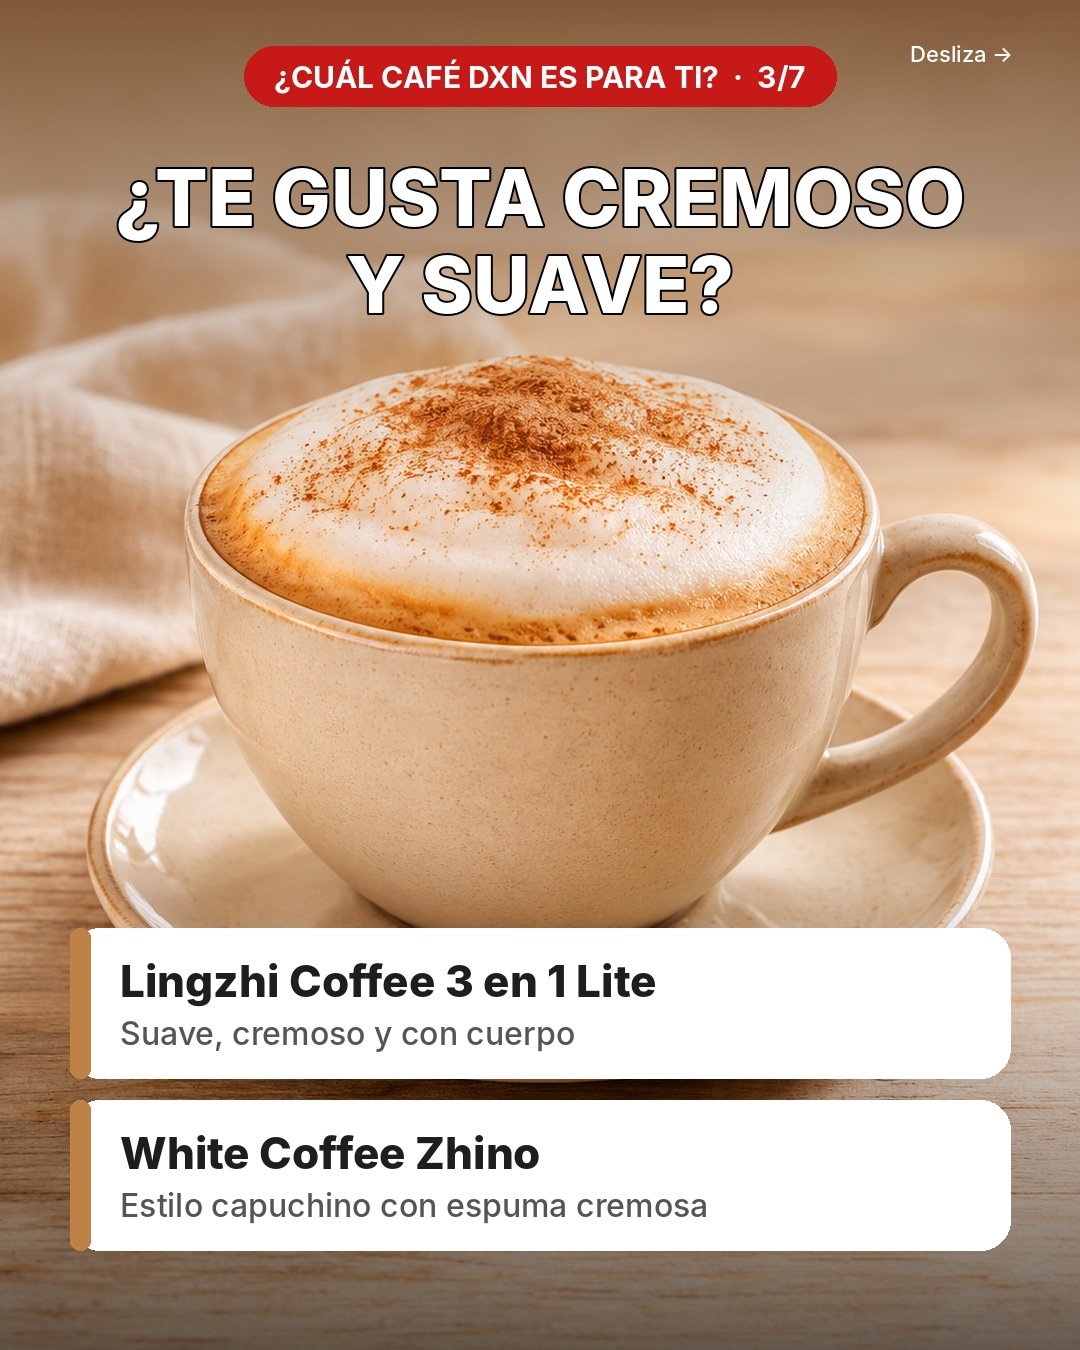
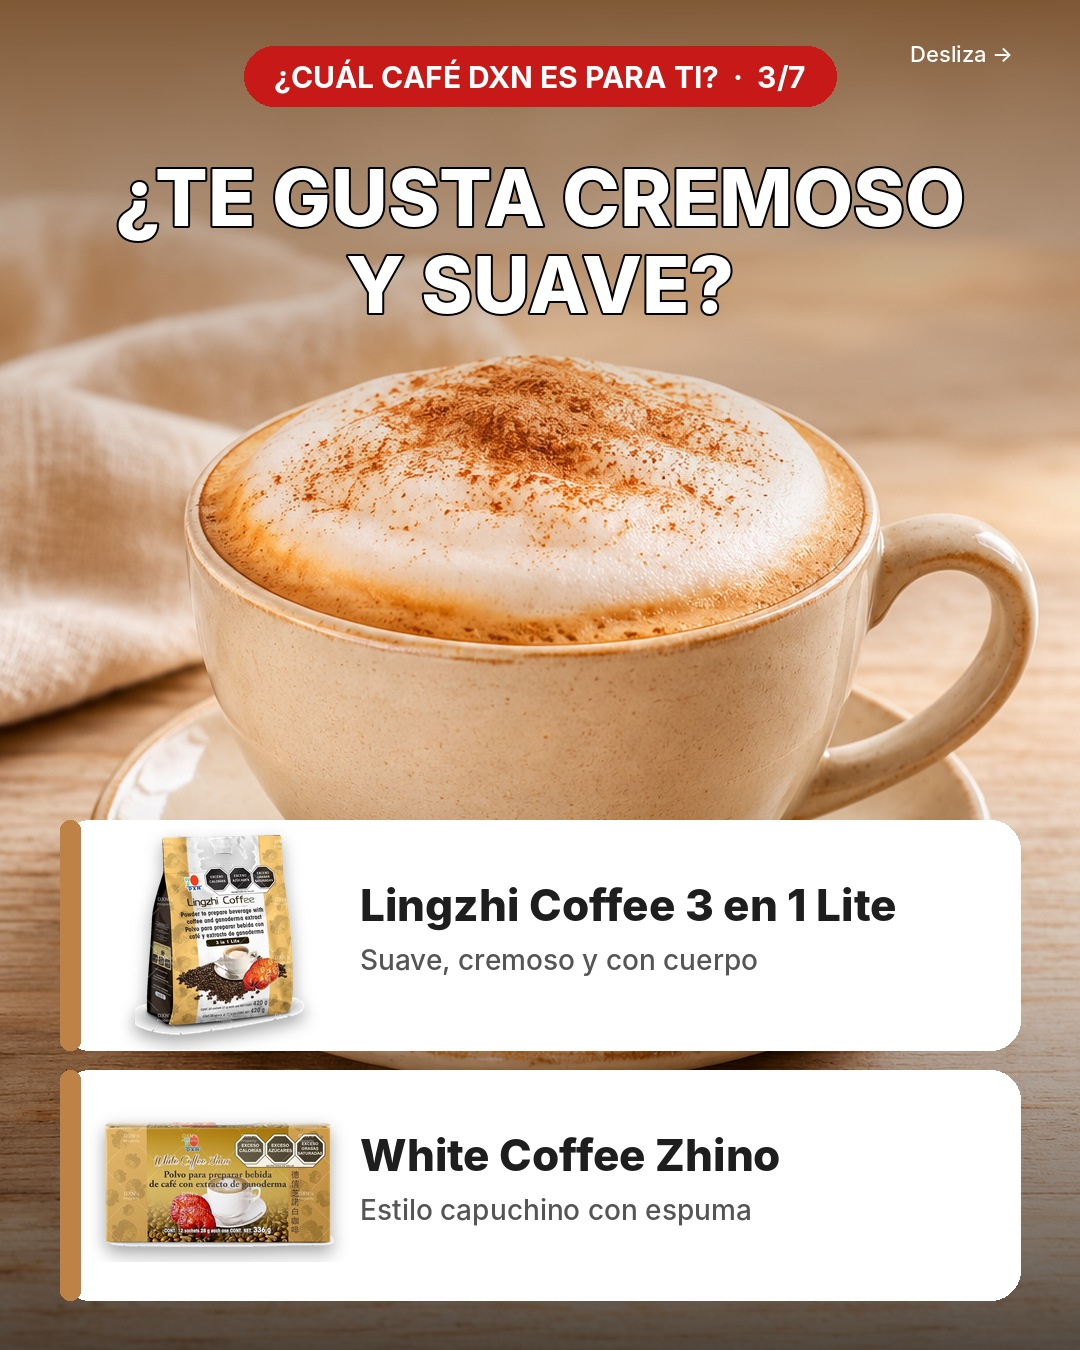
Show official DXN product packs in the coffee carousel
Each card now shows the real package from the DXN Mexico catalog, and the
closing slide shows the nine products instead of a profile photo.

Claude-Session: https://claude.ai/code/session_01TFae1ghcLLBCaaQRACwxi2

Changed region(s): [[0.0306, 0.5911, 0.9472, 0.9644]]

diff --git a/dxn/scripts/carrusel.py b/dxn/scripts/carrusel.py
@@ -22,26 +22,34 @@ def center(d,y,txt,font,fill=(255,255,255),stroke=0,sf=(0,0,0)):
 def pill(d,y,txt,bgc,fg=(255,255,255)):
     w=d.textlength(txt,font=PILL); x=(W-w)/2
     d.rounded_rectangle((x-30,y-12,x+w+30,y+48),radius=30,fill=bgc); d.text((x,y),txt,font=PILL,fill=fg)
+PROD='/tmp/claude-0/-home-user-Pek-Ss-boutique/f5892703-9636-54fe-89dd-0efcb8a15e5f/carrusel/prod/'
+def pack(key,bw,bh):
+    im=Image.open(PROD+key+'.png'); im.thumbnail((bw,bh),Image.LANCZOS)
+    sh=Image.new('RGBA',(im.width+30,im.height+30),(0,0,0,0)); a=im.split()[3].point(lambda v:int(v*0.35))
+    sh.paste((0,0,0,255),(15,22),a); sh=sh.filter(ImageFilter.GaussianBlur(8)); sh.alpha_composite(im,(15,15)); return sh
 def cards(img,items,accent,y0):
-    d=ImageDraw.Draw(img); n=len(items); ch=150; gap=22
-    y=y0 if y0 else H-60-n*ch-(n-1)*gap-40
-    for name,desc in items:
-        d.rounded_rectangle((70,y,W-70,y+ch),radius=30,fill=(255,255,255,240))
-        d.rounded_rectangle((70,y,90,y+ch),radius=10,fill=accent)
-        d.text((120,y+26),name,font=PN,fill=(30,30,30)); d.text((120,y+86),desc,font=PD,fill=(85,85,85))
+    d=ImageDraw.Draw(img); n=len(items); ch=230; gap=20
+    y=H-50-n*ch-(n-1)*gap
+    for name,desc,key in items:
+        d.rounded_rectangle((60,y,W-60,y+ch),radius=30,fill=(255,255,255,245))
+        d.rounded_rectangle((60,y,80,y+ch),radius=10,fill=accent)
+        pk=pack(key,230,200); img.alpha_composite(pk,(int(100+(240-pk.width)/2),int(y+(ch-pk.height)/2)))
+        tx=360; nf=PN if d.textlength(name,font=PN)<W-60-tx-30 else f('Inter-ExtraBold.otf',36)
+        d.text((tx,y+58),name,font=nf,fill=(30,30,30))
+        d.text((tx,y+122),desc,font=f('Inter-Medium.otf',28),fill=(85,85,85))
         y+=ch+gap
     return d
 slides=[
  dict(img='c1.png',color=(20,70,40),q='¿CUÁL CAFÉ DXN\nES PARA TI?',sub='Desliza y descubre el tuyo  →',items=[]),
- dict(img='c2.png',color=(20,20,20),q='¿PREFIERES SIN\nAZÚCAR AÑADIDA?',items=[('Lingzhi Black Coffee 2 en 1','Intenso y aromático, sin azúcar añadida'),('Cream Coffee','Cremoso y sedoso, sin azúcar añadida')],accent=(200,160,60)),
- dict(img='c3.png',color=(120,80,45),q='¿TE GUSTA CREMOSO\nY SUAVE?',items=[('Lingzhi Coffee 3 en 1 Lite','Suave, cremoso y con cuerpo'),('White Coffee Zhino','Estilo capuchino con espuma cremosa')],accent=(190,130,70)),
- dict(img='c4.png',color=(70,40,25),q='¿ERES DE\nCHOCOLATE?',items=[('Zhi Mocha','Café con cocoa en polvo'),('Cocozhi','Bebida de cocoa para toda la familia')],accent=(150,90,50)),
- dict(img='c5.png',color=(35,20,12),q='¿TE GUSTA EL\nCAFÉ FUERTE?',items=[('Zhi Roasted Coffee','Café tostado: sabor intenso')],accent=(200,25,25)),
- dict(img='c6.png',color=(50,110,50),q='¿NO TOMAS\nCAFÉ?',items=[('Lingzhi Tea Latte','Té cremoso y menos amargo'),('Lemonzhi','Limón y té: refrescante')],accent=(230,190,30)),
+ dict(img='c2.png',color=(20,20,20),q='¿PREFIERES SIN\nAZÚCAR AÑADIDA?',items=[('Lingzhi Black Coffee 2 en 1','Intenso, sin azúcar añadida','black'),('Cream Coffee','Cremoso, sin azúcar añadida','cream')],accent=(200,160,60)),
+ dict(img='c3.png',color=(120,80,45),q='¿TE GUSTA CREMOSO\nY SUAVE?',items=[('Lingzhi Coffee 3 en 1 Lite','Suave, cremoso y con cuerpo','lite'),('White Coffee Zhino','Estilo capuchino con espuma','zhino')],accent=(190,130,70)),
+ dict(img='c4.png',color=(70,40,25),q='¿ERES DE\nCHOCOLATE?',items=[('Zhi Mocha','Café con cocoa en polvo','mocha'),('Cocozhi','Cocoa para toda la familia','cocozhi')],accent=(150,90,50)),
+ dict(img='c5.png',color=(35,20,12),q='¿TE GUSTA EL\nCAFÉ FUERTE?',items=[('Zhi Roasted Coffee','Café tostado: sabor intenso','roasted')],accent=(200,25,25)),
+ dict(img='c6.png',color=(50,110,50),q='¿NO TOMAS\nCAFÉ?',items=[('Lingzhi Tea Latte','Té cremoso y menos amargo','tealatte'),('Lemonzhi','Limón y té: refrescante','lemonzhi')],accent=(230,190,30)),
 ]
 for i,s in enumerate(slides,1):
     im=grad(bg_photo(C+s['img']),s['color'],True,560,240)
-    if s['items']: im=grad(im,(0,0,0),False,520,150)
+    if s['items']: im=grad(im,(0,0,0),False,600,170)
     d=ImageDraw.Draw(im)
     if i>1: pill(d,58,f'¿CUÁL CAFÉ DXN ES PARA TI?  ·  {i}/7',(200,25,25))
     center(d,150 if i>1 else 90,s['q'],T,stroke=2,sf=(0,0,0))
@@ -50,17 +58,19 @@ for i,s in enumerate(slides,1):
         d.rounded_rectangle((W/2-260,H-170,W/2+260,H-100),radius=35,fill=(200,25,25)); center(d,H-157,s['sub'],SM)
     if i>1: d.text((W-170,40),'Desliza →',font=TINY,fill=(255,255,255))
     im.convert('RGB').save(OUT+f'carrusel_{i}.jpg',quality=93)
-# slide 7
-im=Image.new('RGB',(W,H),(20,70,40)); d=ImageDraw.Draw(im)
-for y in range(H): d.line((0,y,W,y),fill=(int(14+20*y/H),int(60+30*y/H),int(34+14*y/H)))
-pf=Image.open(OUT+'foto_perfil_dxn_800.jpg').convert('RGB').resize((520,520),Image.LANCZOS)
-m=Image.new('L',(2080,2080),0); ImageDraw.Draw(m).ellipse((0,0,2079,2079),fill=255); m=m.resize((520,520),Image.LANCZOS)
-d.ellipse((W/2-272,318,W/2+272,862),fill=(120,220,90)); im.paste(pf,(int(W/2-260),330),m)
+# slide 7: product lineup
+im=Image.new('RGBA',(W,H),(20,70,40,255)); d=ImageDraw.Draw(im)
+for y in range(H): d.line((0,y,W,y),fill=(int(14+20*y/H),int(60+30*y/H),int(34+14*y/H),255))
 pill(d,58,'¿CUÁL CAFÉ DXN ES PARA TI?  ·  7/7',(200,25,25))
 center(d,140,'¿YA SABES CUÁL\nES EL TUYO?',T2)
-center(d,895,'Roque Hernández',PN,fill=(255,255,255)); center(d,955,'Distribuidor DXN',SM,fill=(190,235,180))
-d.rounded_rectangle((110,1025,W-110,1160),radius=40,fill=(255,255,255))
-center(d,1043,'Escríbeme por mensaje',PN,fill=(20,70,40)); center(d,1103,'y te ayudo a elegir',SM,fill=(80,80,80))
-center(d,1230,'Este producto no es un medicamento. El consumo de este producto es\nresponsabilidad de quien lo recomienda y de quien lo usa.',TINY,fill=(200,225,200))
-im.save(OUT+'carrusel_7.jpg',quality=93)
+d.rounded_rectangle((50,300,W-50,1010),radius=40,fill=(255,255,255,245))
+keys=['black','cream','lite','zhino','mocha','cocozhi','roasted','tealatte','lemonzhi']
+cw,chh=(W-100)//3,230
+for n,k in enumerate(keys):
+    pk=pack(k,cw-40,chh-30); cx=50+(n%3)*cw+(cw-pk.width)//2; cy=315+(n//3)*chh+(chh-pk.height)//2
+    im.alpha_composite(pk,(int(cx),int(cy)))
+d.rounded_rectangle((110,1045,W-110,1180),radius=40,fill=(200,25,25))
+center(d,1062,'Escríbeme por mensaje',PN); center(d,1122,'y te ayudo a elegir',SM,fill=(255,225,225))
+center(d,1232,'Este producto no es un medicamento. El consumo de este producto es\nresponsabilidad de quien lo recomienda y de quien lo usa.',TINY,fill=(200,225,200))
+im.convert('RGB').save(OUT+'carrusel_7.jpg',quality=93)
 print('ok')

diff --git a/dxn/scripts/cutout.py b/dxn/scripts/cutout.py
@@ -1,0 +1,17 @@
+import sys
+from PIL import Image, ImageDraw, ImageFilter, ImageChops
+P='/tmp/claude-0/-home-user-Pek-Ss-boutique/f5892703-9636-54fe-89dd-0efcb8a15e5f/carrusel/prod/'
+for k in ['black','cream','lite','zhino','mocha','cocozhi','roasted','tealatte','lemonzhi']:
+    im=Image.open(P+k+'.jpg').convert('RGB'); w,h=im.size
+    # mask of 'near white' connected to borders via flood fill on a copy
+    m=im.copy(); 
+    for seed in [(0,0),(w-1,0),(0,h-1),(w-1,h-1),(w//2,0),(w//2,h-1),(0,h//2),(w-1,h//2)]:
+        if sum(m.getpixel(seed))>700: ImageDraw.floodfill(m,seed,(255,0,255),thresh=28)
+    px=m.load(); a=Image.new('L',(w,h),255); ap=a.load()
+    for y in range(h):
+        for x in range(w):
+            if px[x,y]==(255,0,255): ap[x,y]=0
+    a=a.filter(ImageFilter.MinFilter(3)).filter(ImageFilter.GaussianBlur(1))
+    rgba=im.convert('RGBA'); rgba.putalpha(a)
+    bb=a.point(lambda v:255 if v>20 else 0).getbbox(); rgba=rgba.crop(bb)
+    rgba.save(P+k+'.png'); print(k,rgba.size)
